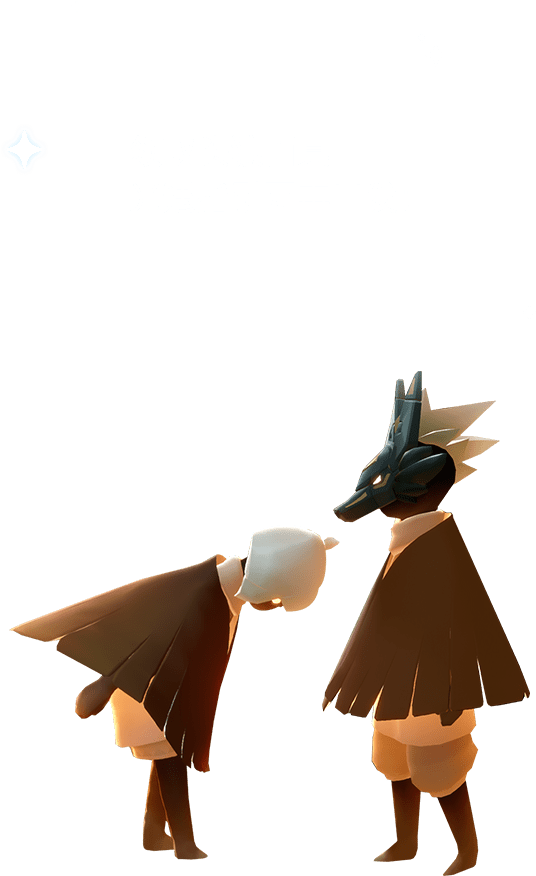
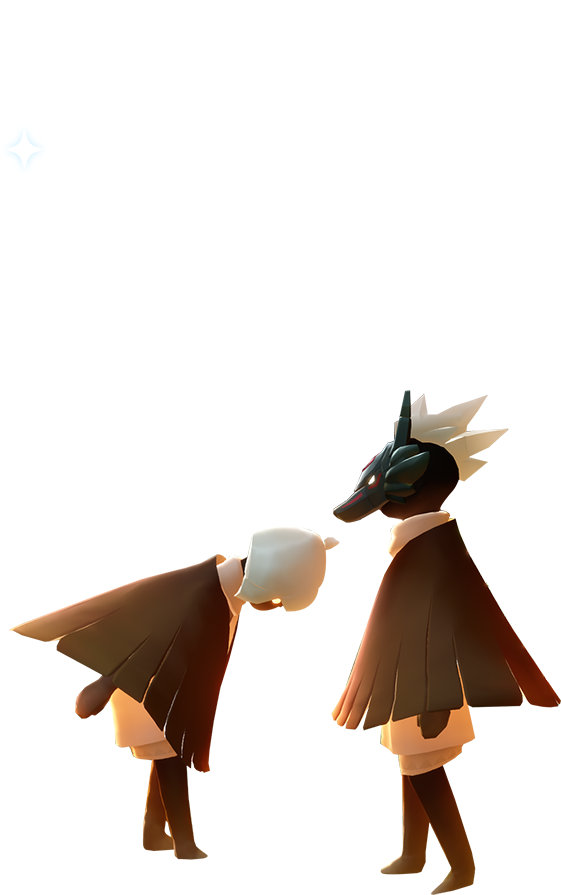
feat: 活动中心狼人杀联动活动人物图更换和新增联动logo

Changed region(s): [[0.0299, 0.4315, 1.0, 1.0]]

diff --git a/src/views/NeteaseWerewolf/NeteaseWerewolf.vue b/src/views/NeteaseWerewolf/NeteaseWerewolf.vue
@@ -17,6 +17,7 @@
               ]"
               @click="handleHelp"
             ></div>
+            <div class="logo"></div>
           </div>
         </Transition>
         <Transition appear :name="mainTransitionName" mode="out-in">
@@ -867,7 +868,7 @@ const toClaimMissionReward = (task: Reward, index: number): void => {
   position: relative;
   left: 45px;
   top: 69px;
-  width: 1319px;
+  width: 1970px;
 }
 .help {
   position: absolute;
@@ -882,6 +883,16 @@ const toClaimMissionReward = (task: Reward, index: number): void => {
     background-image: url('@/assets/images/netease-werewolf/help-unpass.png');
   }
 }
+.logo {
+  position: absolute;
+  width: 472px;
+  height: 66px;
+  top: -46px;
+  right: 0;
+  background-image: url('@/assets/images/netease-werewolf/logo.png');
+  background-repeat: no-repeat;
+  background-size: cover;
+}
 .task-list {
   position: absolute;
   left: 68px;
@@ -895,10 +906,10 @@ const toClaimMissionReward = (task: Reward, index: number): void => {
   background-position: center;
   background-size: contain;
   &.pass {
-    right: 40px;
+    right: 24px;
     top: 136px;
-    width: 536px;
-    height: 876px;
+    width: 561px;
+    height: 895px;
     background-image: url('@/assets/images/netease-werewolf/character-pass.png');
   }
   &.unpass {

diff --git a/src/views/NeteaseWerewolfJoin/NeteaseWerewolfJoin.vue b/src/views/NeteaseWerewolfJoin/NeteaseWerewolfJoin.vue
@@ -16,6 +16,7 @@
               class="help cursor-pointer bg-contain"
               @click="handleHelp"
             ></div>
+            <div class="logo"></div>
           </h1>
         </Transition>
         <Transition appear :name="mainTransitionName" mode="out-in">
@@ -469,6 +470,16 @@ function handleHelp(): void {
   top: 52px;
   left: 990px;
   background-image: url('@/assets/images/netease-werewolf-join/help.png');
+}
+.logo {
+  position: absolute;
+  width: 472px;
+  height: 66px;
+  top: 22px;
+  right: 26px;
+  background-image: url('@/assets/images/netease-werewolf-join/logo.png');
+  background-repeat: no-repeat;
+  background-size: cover;
 }
 .progress-container {
   width: 1360px;
